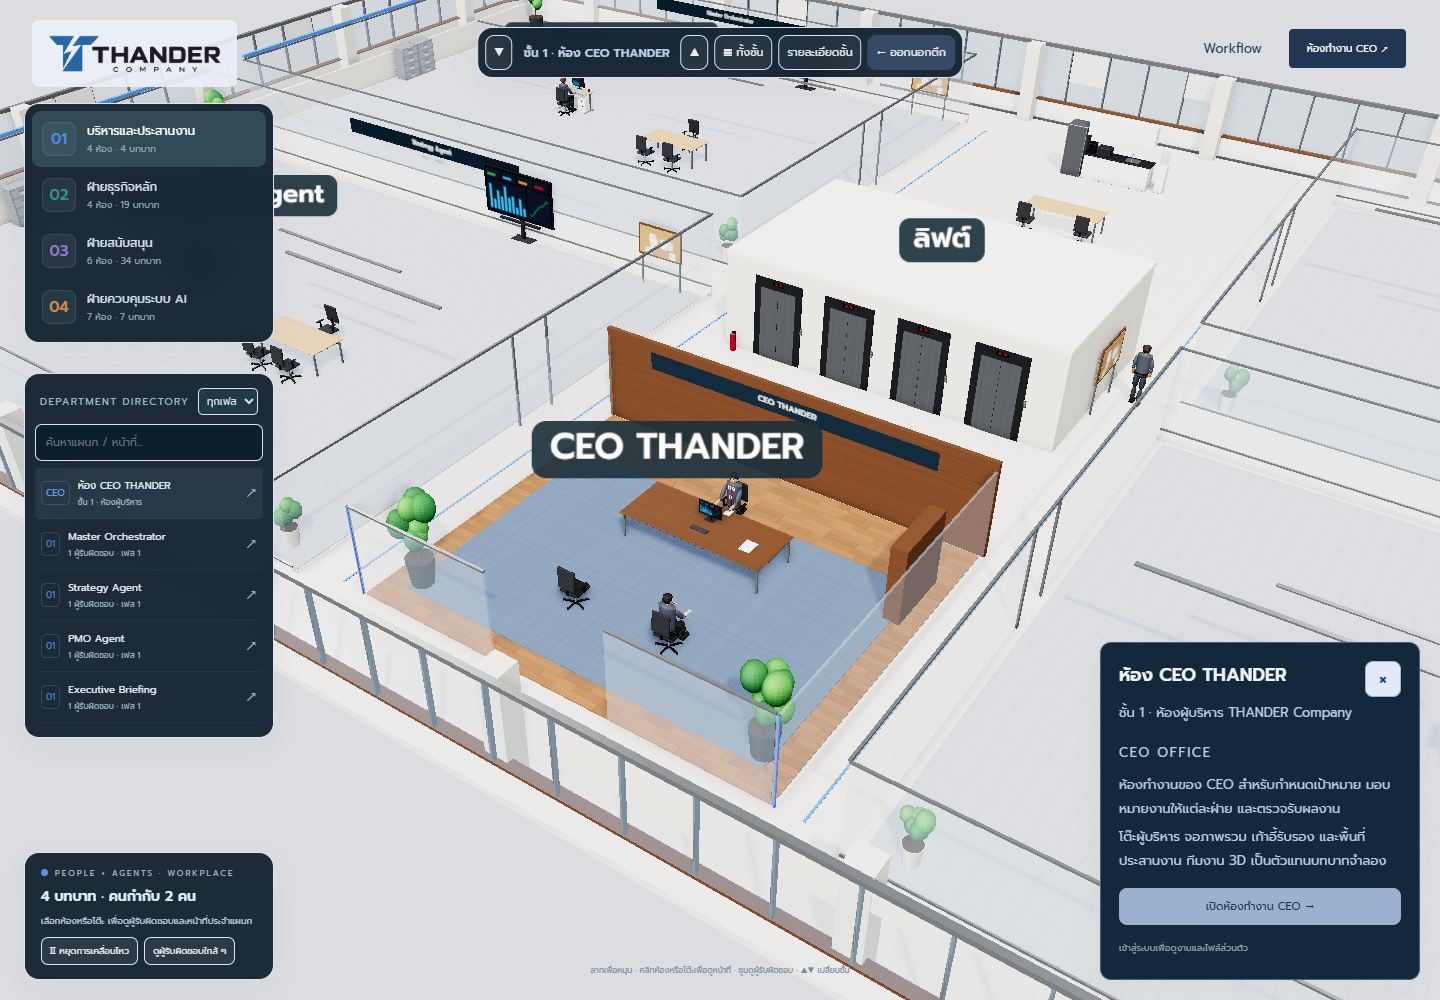
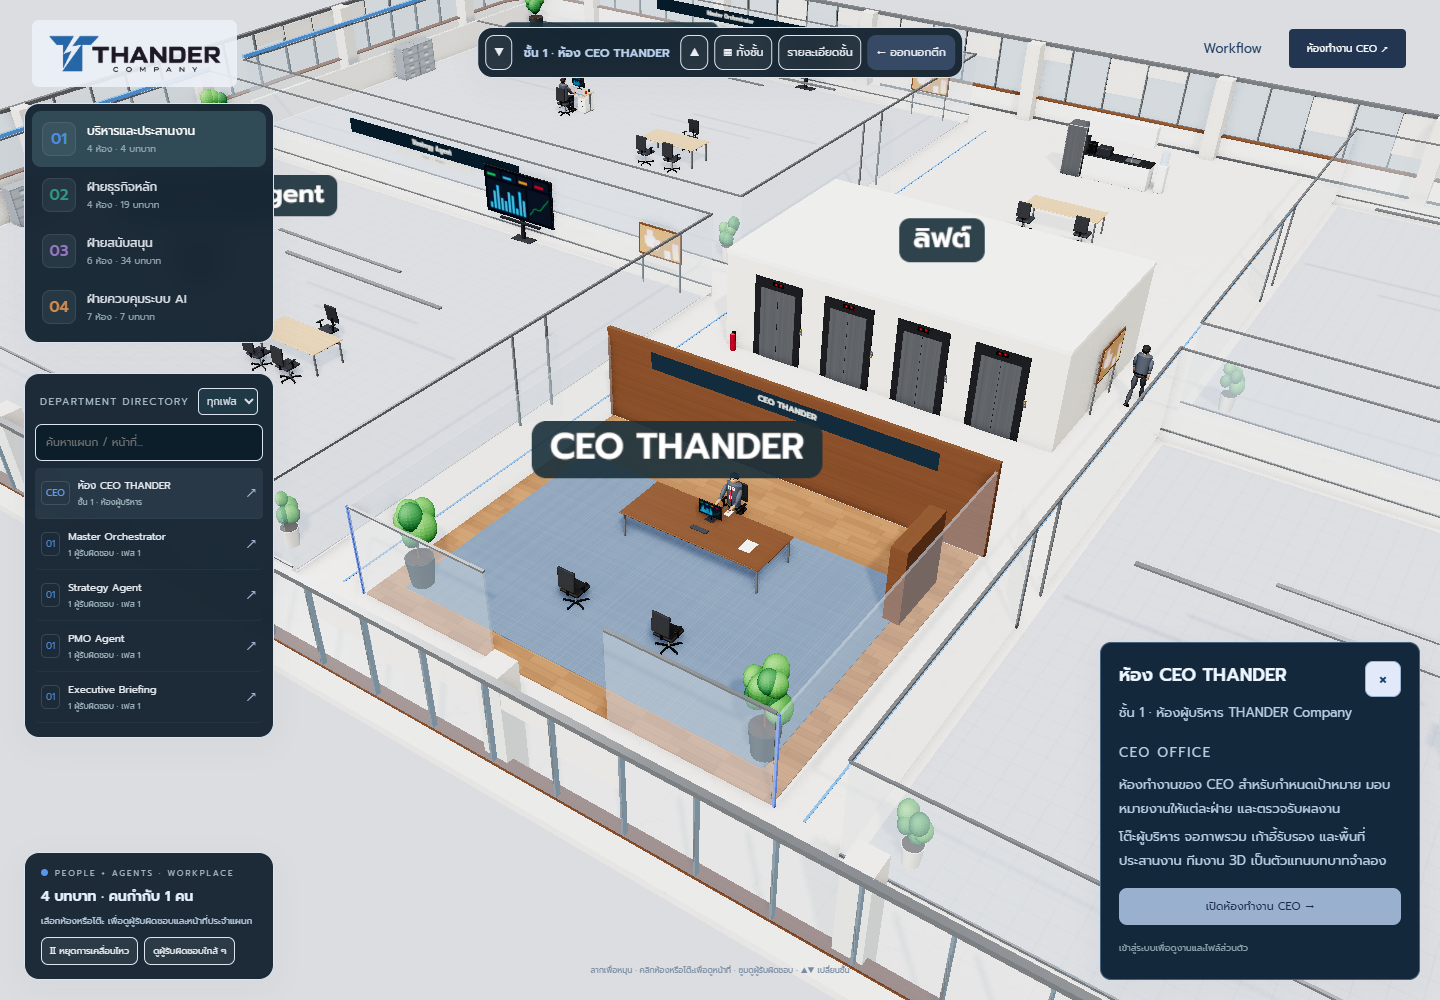
Refresh THANDER office with CEO as sole occupant

diff --git a/Portfolio.html b/Portfolio.html
@@ -3445,7 +3445,7 @@ a:focus-visible, button:focus-visible, input:focus-visible { outline: 2px solid 
           <div style="padding:1.75rem;">
             <span style="display:inline-block;font-size:0.68rem;font-weight:700;letter-spacing:0.12em;color:#93bfff;border:1px solid #93bfff44;border-radius:99px;padding:0.25rem 0.75rem;margin-bottom:1rem;">3D Campus · Workflow · CEO Workspace</span>
             <h3 class="bento-title" style="margin-bottom:0.65rem;">THANDER Company</h3>
-            <p style="font-size:0.9rem;line-height:1.85;color:rgba(248,250,252,0.72);margin:0 0 1.25rem;">สำนักงานใหญ่ 3D โทนน้ำเงิน 4 ชั้น 11 ฝ่าย 64 บทบาท พร้อมคติ “คิดให้ไกล สร้างให้จริง ก้าวสู่อนาคต” ปรับอาคารให้เด่นขึ้นบนมือถือ และพับกรอบรายละเอียดเพื่อเห็นผังภายในครบทุกชั้น เปิดดูแผนกและหน้าที่ได้เมื่อต้องการ มี Workflow และไดอะแกรม SVG อธิบายการทำงานทุกฝ่าย ห้อง CEO THANDER ชั้น 1 เชื่อมพื้นที่ทำงานส่วนตัว มีตัวเลขสรุป ค้นหา กรอง ลบงาน และกู้คืนจากถังขยะ พร้อมสั่งงาน Gemini ขอแก้ไข ตรวจรับ และดาวน์โหลดไฟล์ภาษาไทยสำหรับ Excel มีตัวอย่างแผนคอนเทนต์ 7 วันให้ทดลองโดยไม่ใช้ AI ส่วนงาน AI จริงใช้โควต้า Free Tier ของโปรเจกต์ Google ที่ไม่เปิด Billing และไม่สลับไป OpenAI</p>
+            <p style="font-size:0.9rem;line-height:1.85;color:rgba(248,250,252,0.72);margin:0 0 1.25rem;">สำนักงานใหญ่ 3D โทนน้ำเงิน 4 ชั้น 11 ฝ่าย 64 บทบาท พร้อมคติ “คิดให้ไกล สร้างให้จริง ก้าวสู่อนาคต” ปรับอาคารให้เด่นขึ้นบนมือถือ และพับกรอบรายละเอียดเพื่อเห็นผังภายในครบทุกชั้น เปิดดูแผนกและหน้าที่ได้เมื่อต้องการ มี Workflow และไดอะแกรม SVG อธิบายการทำงานทุกฝ่าย ห้อง CEO THANDER ชั้น 1 มี CEO ประจำห้องเพียงคนเดียว เชื่อมพื้นที่ทำงานส่วนตัว มีตัวเลขสรุป ค้นหา กรอง ลบงาน และกู้คืนจากถังขยะ พร้อมสั่งงาน Gemini ขอแก้ไข ตรวจรับ และดาวน์โหลดไฟล์ภาษาไทยสำหรับ Excel มีตัวอย่างแผนคอนเทนต์ 7 วันให้ทดลองโดยไม่ใช้ AI ส่วนงาน AI จริงใช้โควต้า Free Tier ของโปรเจกต์ Google ที่ไม่เปิด Billing และไม่สลับไป OpenAI</p>
             <div style="display:flex;flex-wrap:wrap;gap:0.4rem;margin-bottom:1.5rem;">
               <span style="font-size:0.7rem;padding:0.25rem 0.7rem;border:1px solid #93bfff4d;color:#93bfff;border-radius:99px;">Three.js</span><span style="font-size:0.7rem;padding:0.25rem 0.7rem;border:1px solid #93bfff4d;color:#93bfff;border-radius:99px;">Gemini API</span><span style="font-size:0.7rem;padding:0.25rem 0.7rem;border:1px solid #93bfff4d;color:#93bfff;border-radius:99px;">Vercel Functions</span><span style="font-size:0.7rem;padding:0.25rem 0.7rem;border:1px solid #93bfff4d;color:#93bfff;border-radius:99px;">Private Blob</span>
             </div>

diff --git a/index.html b/index.html
@@ -3445,7 +3445,7 @@ a:focus-visible, button:focus-visible, input:focus-visible { outline: 2px solid 
           <div style="padding:1.75rem;">
             <span style="display:inline-block;font-size:0.68rem;font-weight:700;letter-spacing:0.12em;color:#93bfff;border:1px solid #93bfff44;border-radius:99px;padding:0.25rem 0.75rem;margin-bottom:1rem;">3D Campus · Workflow · CEO Workspace</span>
             <h3 class="bento-title" style="margin-bottom:0.65rem;">THANDER Company</h3>
-            <p style="font-size:0.9rem;line-height:1.85;color:rgba(248,250,252,0.72);margin:0 0 1.25rem;">สำนักงานใหญ่ 3D โทนน้ำเงิน 4 ชั้น 11 ฝ่าย 64 บทบาท พร้อมคติ “คิดให้ไกล สร้างให้จริง ก้าวสู่อนาคต” ปรับอาคารให้เด่นขึ้นบนมือถือ และพับกรอบรายละเอียดเพื่อเห็นผังภายในครบทุกชั้น เปิดดูแผนกและหน้าที่ได้เมื่อต้องการ มี Workflow และไดอะแกรม SVG อธิบายการทำงานทุกฝ่าย ห้อง CEO THANDER ชั้น 1 เชื่อมพื้นที่ทำงานส่วนตัว มีตัวเลขสรุป ค้นหา กรอง ลบงาน และกู้คืนจากถังขยะ พร้อมสั่งงาน Gemini ขอแก้ไข ตรวจรับ และดาวน์โหลดไฟล์ภาษาไทยสำหรับ Excel มีตัวอย่างแผนคอนเทนต์ 7 วันให้ทดลองโดยไม่ใช้ AI ส่วนงาน AI จริงใช้โควต้า Free Tier ของโปรเจกต์ Google ที่ไม่เปิด Billing และไม่สลับไป OpenAI</p>
+            <p style="font-size:0.9rem;line-height:1.85;color:rgba(248,250,252,0.72);margin:0 0 1.25rem;">สำนักงานใหญ่ 3D โทนน้ำเงิน 4 ชั้น 11 ฝ่าย 64 บทบาท พร้อมคติ “คิดให้ไกล สร้างให้จริง ก้าวสู่อนาคต” ปรับอาคารให้เด่นขึ้นบนมือถือ และพับกรอบรายละเอียดเพื่อเห็นผังภายในครบทุกชั้น เปิดดูแผนกและหน้าที่ได้เมื่อต้องการ มี Workflow และไดอะแกรม SVG อธิบายการทำงานทุกฝ่าย ห้อง CEO THANDER ชั้น 1 มี CEO ประจำห้องเพียงคนเดียว เชื่อมพื้นที่ทำงานส่วนตัว มีตัวเลขสรุป ค้นหา กรอง ลบงาน และกู้คืนจากถังขยะ พร้อมสั่งงาน Gemini ขอแก้ไข ตรวจรับ และดาวน์โหลดไฟล์ภาษาไทยสำหรับ Excel มีตัวอย่างแผนคอนเทนต์ 7 วันให้ทดลองโดยไม่ใช้ AI ส่วนงาน AI จริงใช้โควต้า Free Tier ของโปรเจกต์ Google ที่ไม่เปิด Billing และไม่สลับไป OpenAI</p>
             <div style="display:flex;flex-wrap:wrap;gap:0.4rem;margin-bottom:1.5rem;">
               <span style="font-size:0.7rem;padding:0.25rem 0.7rem;border:1px solid #93bfff4d;color:#93bfff;border-radius:99px;">Three.js</span><span style="font-size:0.7rem;padding:0.25rem 0.7rem;border:1px solid #93bfff4d;color:#93bfff;border-radius:99px;">Gemini API</span><span style="font-size:0.7rem;padding:0.25rem 0.7rem;border:1px solid #93bfff4d;color:#93bfff;border-radius:99px;">Vercel Functions</span><span style="font-size:0.7rem;padding:0.25rem 0.7rem;border:1px solid #93bfff4d;color:#93bfff;border-radius:99px;">Private Blob</span>
             </div>

diff --git a/README.md b/README.md
@@ -81,3 +81,5 @@ THANDER homepage motto updated to “คิดให้ไกล สร้าง
 THANDER workspace update: added status summaries, combined search/status filters and a wrapping inbox. Interior details start collapsed across all four floors; overview cameras fit the plan around controls. Added a public full-plan screenshot and a clearly labeled CEO fixture preview. Sixteen day-mode floor/viewport checks, four night-mode floors, five CEO widths and mocked lifecycle interactions passed. No real task mutations or AI generation were used for these UI checks.
 
 THANDER update: job deletion with confirmation and a private recoverable trash, plus a dedicated 3D CEO THANDER office on floor 1 ([enter office](https://thander-company-ai-campus.vercel.app/#ceo)). Backend tests now total 36. Browser checks used fixtures only for destructive actions; no real company jobs were deleted and no AI generation was triggered. Updated home/CEO previews and added the office screenshot; CEO task previews use explicitly labeled sample data.
+
+THANDER office update: the CEO is now the only person in the floor 1 executive office. Removed the coordinator character and refreshed the campus and office screenshots.
